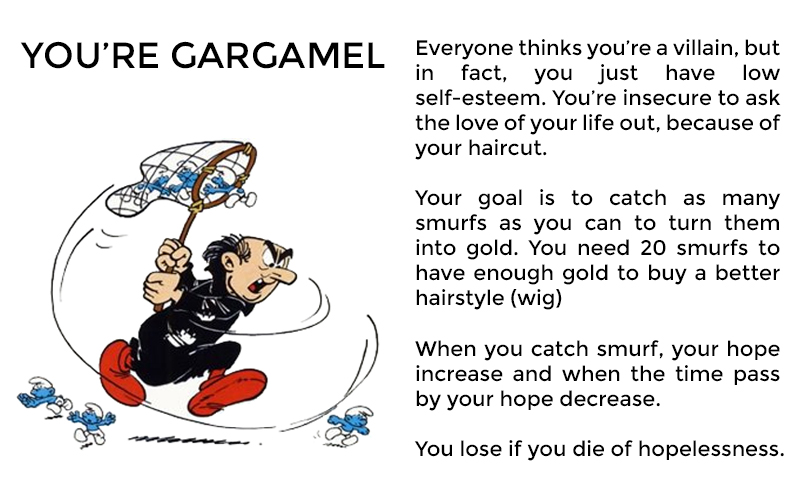
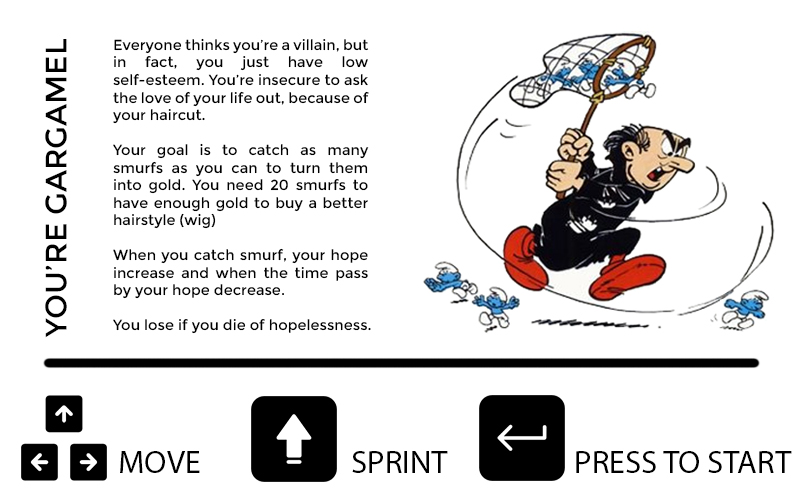
P1: Added a page before it starts and a page when winning

diff --git a/Exercices/Projet 01/js/script.js b/Exercices/Projet 01/js/script.js
@@ -20,7 +20,7 @@ random movement (Perlin noise), screen wrap.
 // 2 === when the game is active
 // 3 === when the player won
 // 4 === when the player lost
-let game = 2; // start the game on the instructions
+let game = 1; // start the game on the instructions
 
 // playerGargamel (player) position, size, velocity
 let playerGargamelX;
@@ -64,11 +64,15 @@ let randomSmurf;
 // Amount of health obtained per frame of "eating" (overlapping) the smurf
 let eatHealth = 10;
 // Number of smurf eaten during the game (the "score")
-let smurfEaten = 0;
+let smurfCatched = 0;
 
 // Define the background and its scale
 let smurfBackgroundImage;
 let backgroundScale = 0.75;
+// Define the instruction image
+let instructionImage;
+// Define the winning image
+let winningImage;
 
 // Audio variables
 let backgroundMusic;
@@ -118,6 +122,9 @@ function preload() {
   //
   // Instructions
   instructionImage = loadImage("assets/images/instructions.jpg");
+  //
+  // Winning image
+  winningImage = loadImage("assets/images/winning.jpg");
 }
 
 // setup()
@@ -148,7 +155,7 @@ function setupsmurf() {
   // Draw image from center
   imageMode(CENTER)
   // Choice a random smurf
-  randomSmurf = random(0,1);
+  randomSmurf = random(0, 1);
 }
 
 // setupplayerGargamel()
@@ -163,11 +170,11 @@ function setupplayerGargamel() {
 }
 
 // setup the background sound, with light volume and in loop
-function setupSound(){
+function setupSound() {
   backgroundMusic.play()
   backgroundMusic.setVolume(0.7)
   backgroundMusic.loop()
-  }
+}
 
 
 // draw()
@@ -178,9 +185,12 @@ function setupSound(){
 // displays the two agents.
 // When the game is over, shows the game over screen.
 function draw() {
-  setBackground()
 
-  if (game === 2) {
+  if (game === 1) {
+    showInstructions();
+  } else if (game === 2) {
+    displayNumberSmurfCatched()
+    setBackground()
     handleInput();
 
     movePlayerGargamel();
@@ -191,14 +201,28 @@ function draw() {
 
     drawsmurf();
     drawplayerGargamel();
-  }
-
-  else if (game === 4){
+  } else if (game === 3) {
+    showWinning();
+  } else if (game === 4) {
     showGameOver();
   }
 }
 
-// setBackground
+// showInstructions
+//
+// Introduction about the game and some instructions
+function showInstructions() {
+  // display the image show the instruction
+  image(instructionImage, width / 2, height / 2, instructionImage.width, instructionImage.height)
+  // check if the enter bar is press
+  if (keyIsDown(ENTER)) {
+    game = 2;
+  }
+}
+
+// displayNumberSmurfCatched()
+
+// setBackground()
 //
 // Set the background with a smurf background landscape
 function setBackground() {
@@ -313,14 +337,20 @@ function checkCatching() {
     // Check if the smurf died (health 0)
     if (smurfHealth === 0) {
       // Choice a random smurf
-      randomSmurf = random(0,1)
+      randomSmurf = random(0, 1)
       // Move the "new" smurf to a random position
       smurfX = random(0, width);
       smurfY = random(0, height);
       // Give it full health
       smurfHealth = smurfMaxHealth;
       // Track how many smurf were eaten
-      smurfEaten = smurfEaten + 1;
+      smurfCatched = smurfCatched + 1;
+
+      // Check if gargamel catched 20 smurf. If so the player won.
+      if (smurfCatched > 19) {
+        game = 3
+      }
+
     }
   }
 }
@@ -371,32 +401,23 @@ function drawsmurf() {
   // Each smurf has 10% chance to be displayed on the screen
   if (randomSmurf < 0.1) {
     image(smurfImage1, smurfX, smurfY, smurfImage1.width * smurfscale, smurfImage1.height * smurfscale);
-  }
-  else if (randomSmurf < 0.2) {
+  } else if (randomSmurf < 0.2) {
     image(smurfImage2, smurfX, smurfY, smurfImage1.width * smurfscale, smurfImage1.height * smurfscale);
-  }
-  else if (randomSmurf < 0.3) {
+  } else if (randomSmurf < 0.3) {
     image(smurfImage3, smurfX, smurfY, smurfImage1.width * smurfscale, smurfImage1.height * smurfscale);
-  }
-  else if (randomSmurf < 0.4) {
+  } else if (randomSmurf < 0.4) {
     image(smurfImage4, smurfX, smurfY, smurfImage1.width * smurfscale, smurfImage1.height * smurfscale);
-  }
-  else if (randomSmurf < 0.5) {
+  } else if (randomSmurf < 0.5) {
     image(smurfImage5, smurfX, smurfY, smurfImage1.width * smurfscale, smurfImage1.height * smurfscale);
-  }
-  else if (randomSmurf < 0.6) {
+  } else if (randomSmurf < 0.6) {
     image(smurfImage6, smurfX, smurfY, smurfImage1.width * smurfscale, smurfImage1.height * smurfscale);
-  }
-  else if (randomSmurf < 0.7) {
+  } else if (randomSmurf < 0.7) {
     image(smurfImage7, smurfX, smurfY, smurfImage1.width * smurfscale, smurfImage1.height * smurfscale);
-  }
-  else if (randomSmurf < 0.8) {
+  } else if (randomSmurf < 0.8) {
     image(smurfImage8, smurfX, smurfY, smurfImage1.width * smurfscale, smurfImage1.height * smurfscale);
-  }
-  else if (randomSmurf < 0.9) {
+  } else if (randomSmurf < 0.9) {
     image(smurfImage9, smurfX, smurfY, smurfImage1.width * smurfscale, smurfImage1.height * smurfscale);
-  }
-  else if (randomSmurf < 1.1) {
+  } else if (randomSmurf < 1.1) {
     image(smurfImage10, smurfX, smurfY, smurfImage1.width * smurfscale, smurfImage1.height * smurfscale);
   }
 }
@@ -415,7 +436,15 @@ function drawplayerGargamel() {
 //
 // Display an image saying that you won!
 function showWinning() {
-  //
+  // display the image telling the play he or she won
+  image(winningImage, width / 2, height / 2, winningImage.width, winningImage.height)
+  // check if the enter bar is press
+  if (keyIsDown(ENTER)) {
+    // reset the values
+    restartGame();
+    // restart the game
+    game = 2;
+  }
 }
 
 // showGameOver()
@@ -430,10 +459,33 @@ function showGameOver() {
   fill(255);
   textFont('MONTSERRAT')
   // Set up the text to display
-  let gameOverText = "GAME OVER\n"; // \n means "new line"
-  gameOverText = gameOverText + "You catched " + smurfEaten + " smurf(s)\n";
+  let gameOverText = "GAME OVER\n\n"; // \n means "new line"
+  gameOverText = gameOverText + "You catched " + smurfCatched + " smurf(s)\n";
   gameOverText = gameOverText + "before you died of hopelessness.\n"
-  gameOverText = gameOverText + "Unfortunately, you \n"
+  gameOverText = gameOverText + "PRESS ENTER TO TRY AGAIN"
   // Display it in the centre of the screen
   text(gameOverText, width / 2, height / 2);
+  // check if the enter bar is press
+  if (keyIsDown(ENTER)) {
+    // reset the values
+    restartGame();
+    // restart the game
+    game = 2;
+  }
+}
+
+function restartGame() {
+  // player
+  playerGargamelMaxHealth = 255;
+  playerGargamelscale = 0.3;
+  playerGargamelVX = 0;
+  playerGargamelVY = 0;
+  playerGargamelMaxSpeed = 4;
+  setupplayerGargamel();
+  // smurf
+  smurfCatched = 0;
+  smurfscale = 0.2;
+  smurfMaxSpeed = 4;
+  smurfMaxHealth = 100;
+  setupsmurf();
 }
